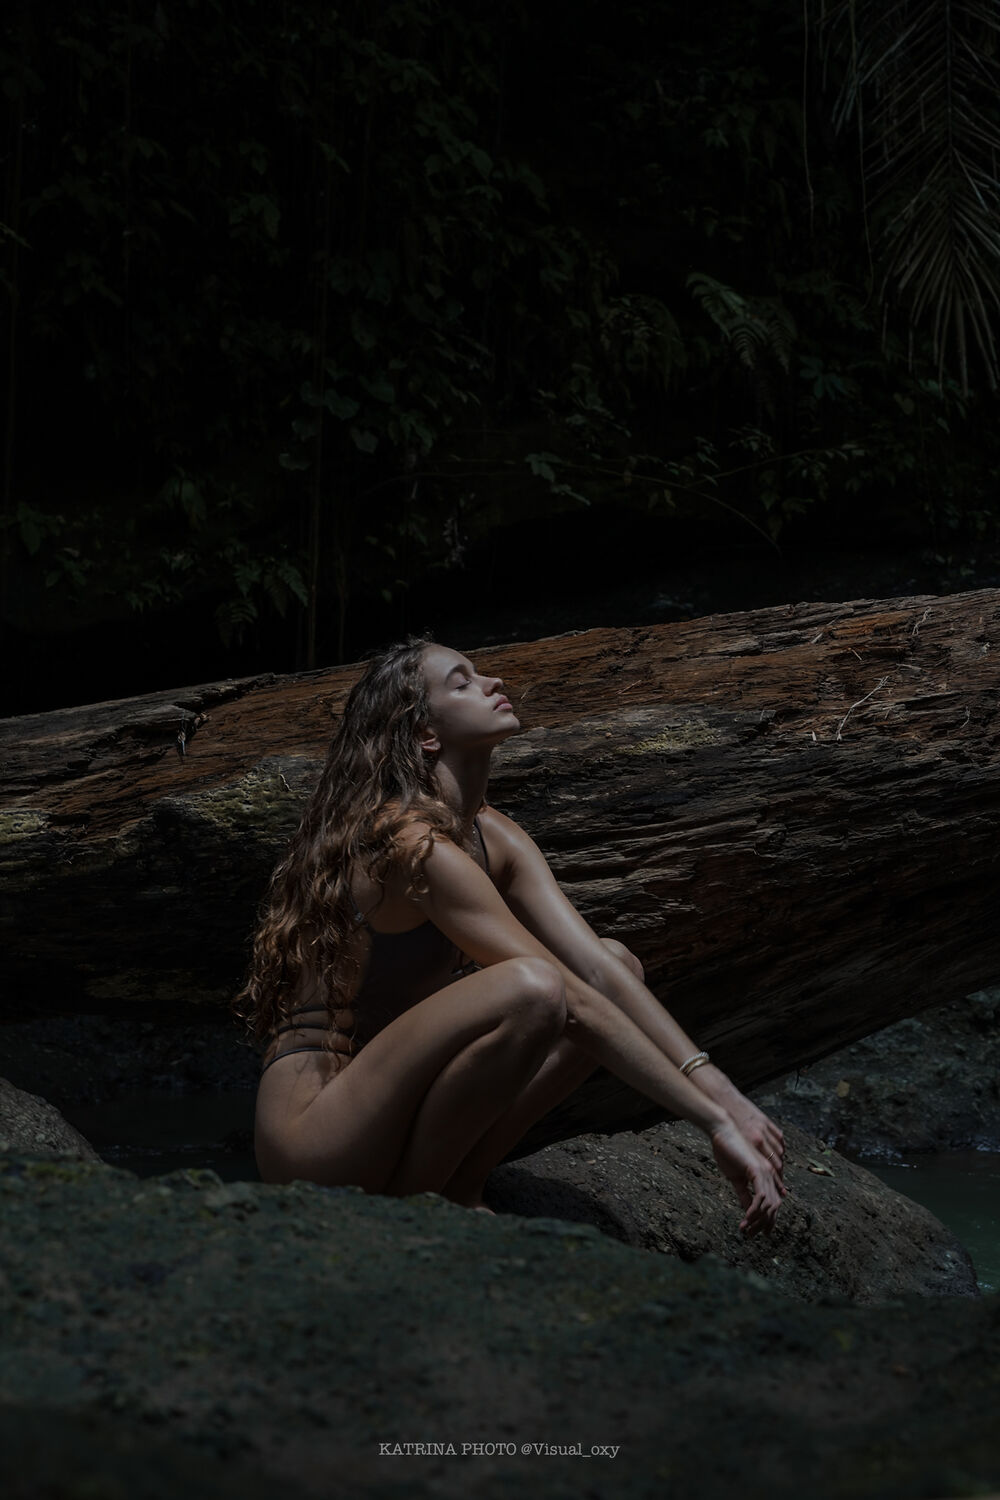
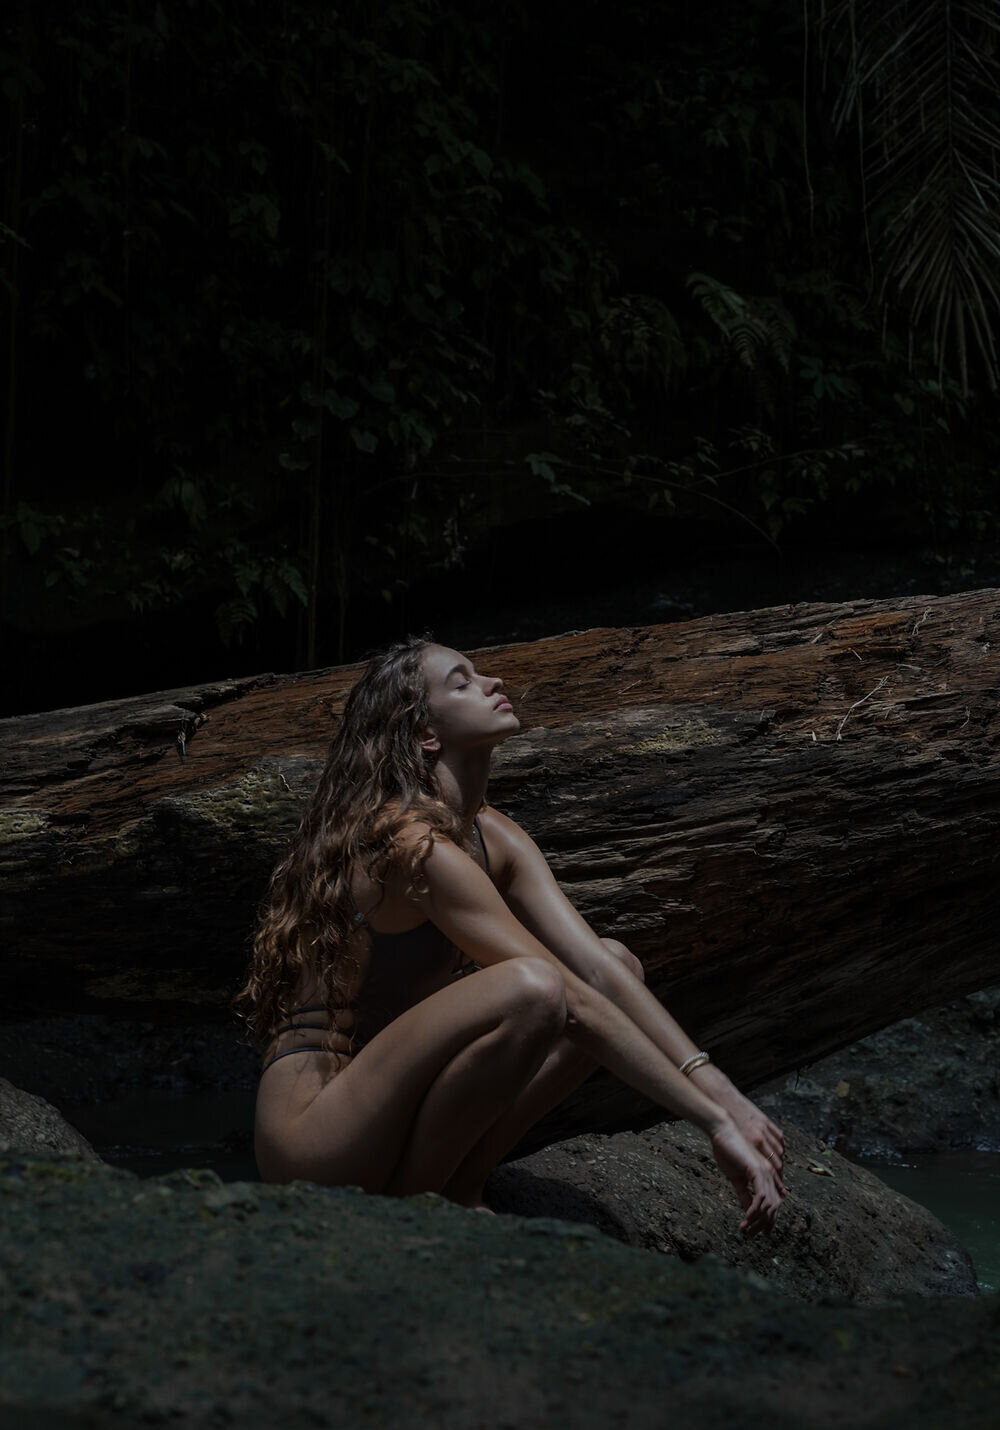
Add files via upload

diff --git a/index.html b/index.html
@@ -317,11 +317,14 @@
 
   /* Teaser grids — fixed column counts so the last row never leaves gaps */
   .teaser-grid-6 {
-    display: grid;
-    grid-template-columns: repeat(3, 1fr);
-    gap: 2px;
+    columns: 3;
+    column-gap: 2px;
     background: var(--line);
-    border: 1px solid var(--line);
+  }
+
+  .teaser-grid-6 .card {
+    break-inside: avoid;
+    margin-bottom: 2px;
   }
 
   .teaser-grid-4 {
@@ -570,7 +573,7 @@
   .insta-link:hover svg { stroke: var(--muted); }
 
   @media (max-width: 900px) {
-    .teaser-grid-6 { grid-template-columns: repeat(2, 1fr); }
+    .teaser-grid-6 { columns: 2; }
     .teaser-grid-4 { grid-template-columns: repeat(2, 1fr); }
   }
 
@@ -582,7 +585,7 @@
   }
 
   @media (max-width: 520px) {
-    .teaser-grid-6 { grid-template-columns: 1fr; }
+    .teaser-grid-6 { columns: 1; }
     .teaser-grid-4 { grid-template-columns: 1fr; }
   }
 </style>
@@ -657,7 +660,7 @@
       </div>
     </div>
 
-    <div class="teaser-grid-6" style="align-items: start;">
+    <div class="teaser-grid-6">
       <div class="card">
         <div class="card-thumb photo-thumb"><img src="model-04.jpg" alt="Editorial-Portrait in schwarzer Spitze"></div>
       </div>
@@ -665,7 +668,7 @@
         <div class="card-thumb photo-thumb"><img src="model-10.jpg" alt="Movement-Editorial in weißem Top und weiter Hose"></div>
       </div>
       <div class="card">
-        <div class="card-thumb photo-thumb"><img src="model-08.jpg" alt="Fine-Art-Portrait am Fluss"></div>
+        <div class="card-thumb photo-thumb"><img src="model-30.jpg" alt="Schwarz-Weiß Profil-Portrait"></div>
       </div>
       <div class="card">
         <div class="card-thumb photo-thumb"><img src="model-15.jpg" alt="Editorial am Meer im roten Rock"></div>

diff --git a/portfolio.html b/portfolio.html
@@ -133,18 +133,17 @@
   .view-link:hover { color: var(--muted); }
 
   .grid {
-    display: grid;
-    grid-template-columns: repeat(2, 1fr);
-    align-items: start;
-    gap: 3px;
+    columns: 2;
+    column-gap: 3px;
     background: var(--line);
-    border: 1px solid var(--line);
   }
 
   .card {
     background: var(--card-bg);
     overflow: hidden;
     display: block;
+    break-inside: avoid;
+    margin-bottom: 3px;
   }
 
   .card-thumb {
@@ -191,7 +190,7 @@
   @media (max-width: 800px) {
     .nav-links { display: none; }
     section { padding: 60px 20px; }
-    .grid { grid-template-columns: 1fr; }
+    .grid { columns: 1; }
   }
 </style>
 </head>
@@ -254,9 +253,6 @@
       </div>
       <div class="card">
         <div class="card-thumb"><img src="model-08.jpg" alt="Fine-Art-Portrait am Fluss"></div>
-      </div>
-      <div class="card">
-        <div class="card-thumb"><img src="model-11.jpg" alt="Fine-Art-Aufnahme am Strand"></div>
       </div>
       <div class="card">
         <div class="card-thumb"><img src="model-13.jpg" alt="Fine-Art-Aufnahme am Meer"></div>
